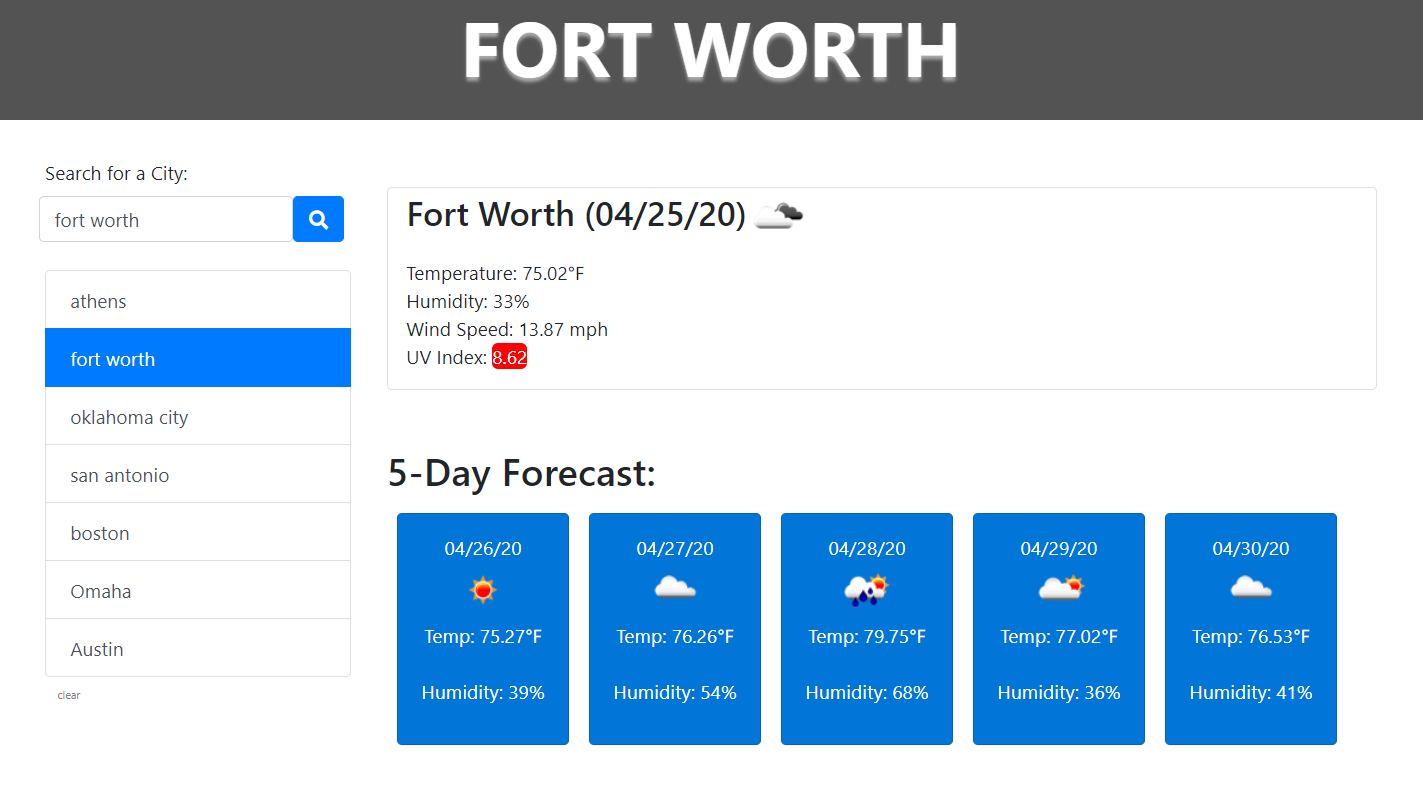
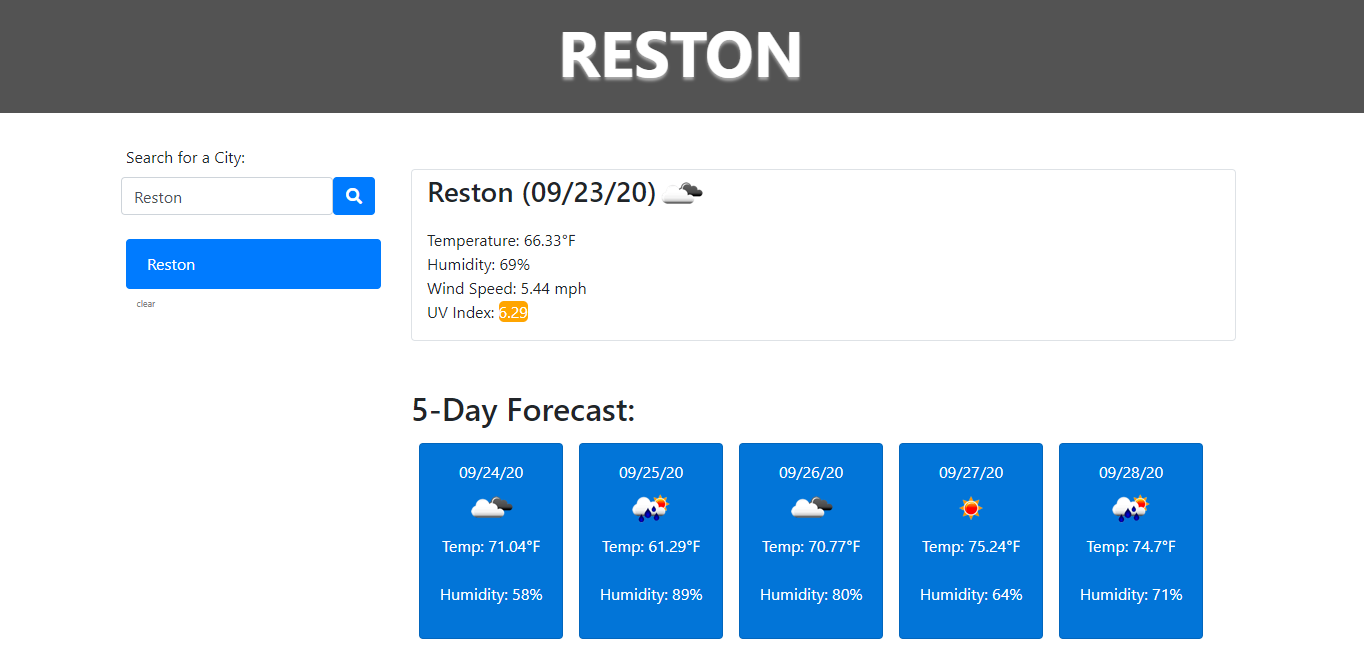
Update README.md

diff --git a/assets/js/script.js b/assets/js/script.js
@@ -146,7 +146,7 @@ var renderCities = () => {
         if (lastCity){
             $('#search-city').attr("value", lastCity);
         } else {
-            $('#search-city').attr("value", "Austin");
+            $('#search-city').attr("value", "Reston");
         }
     } else {
         // Build key of last city written to localStorage
